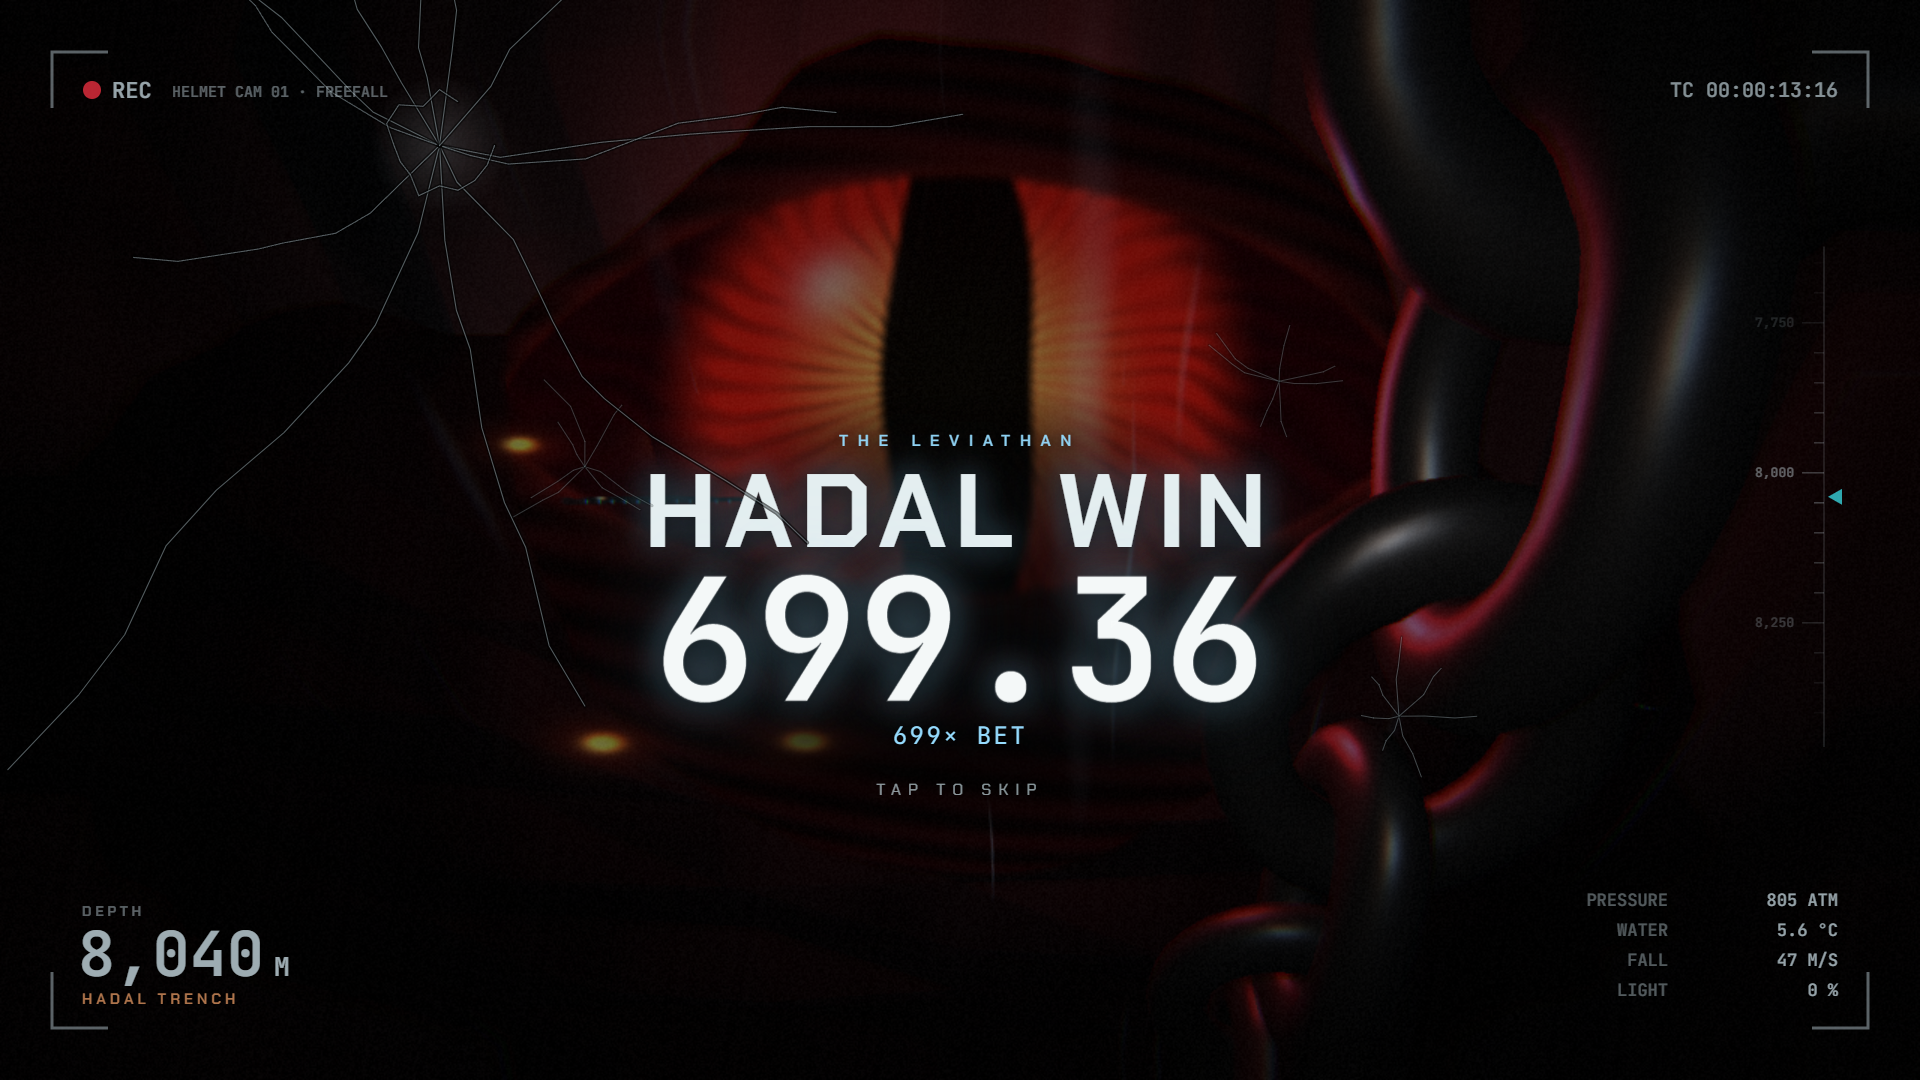
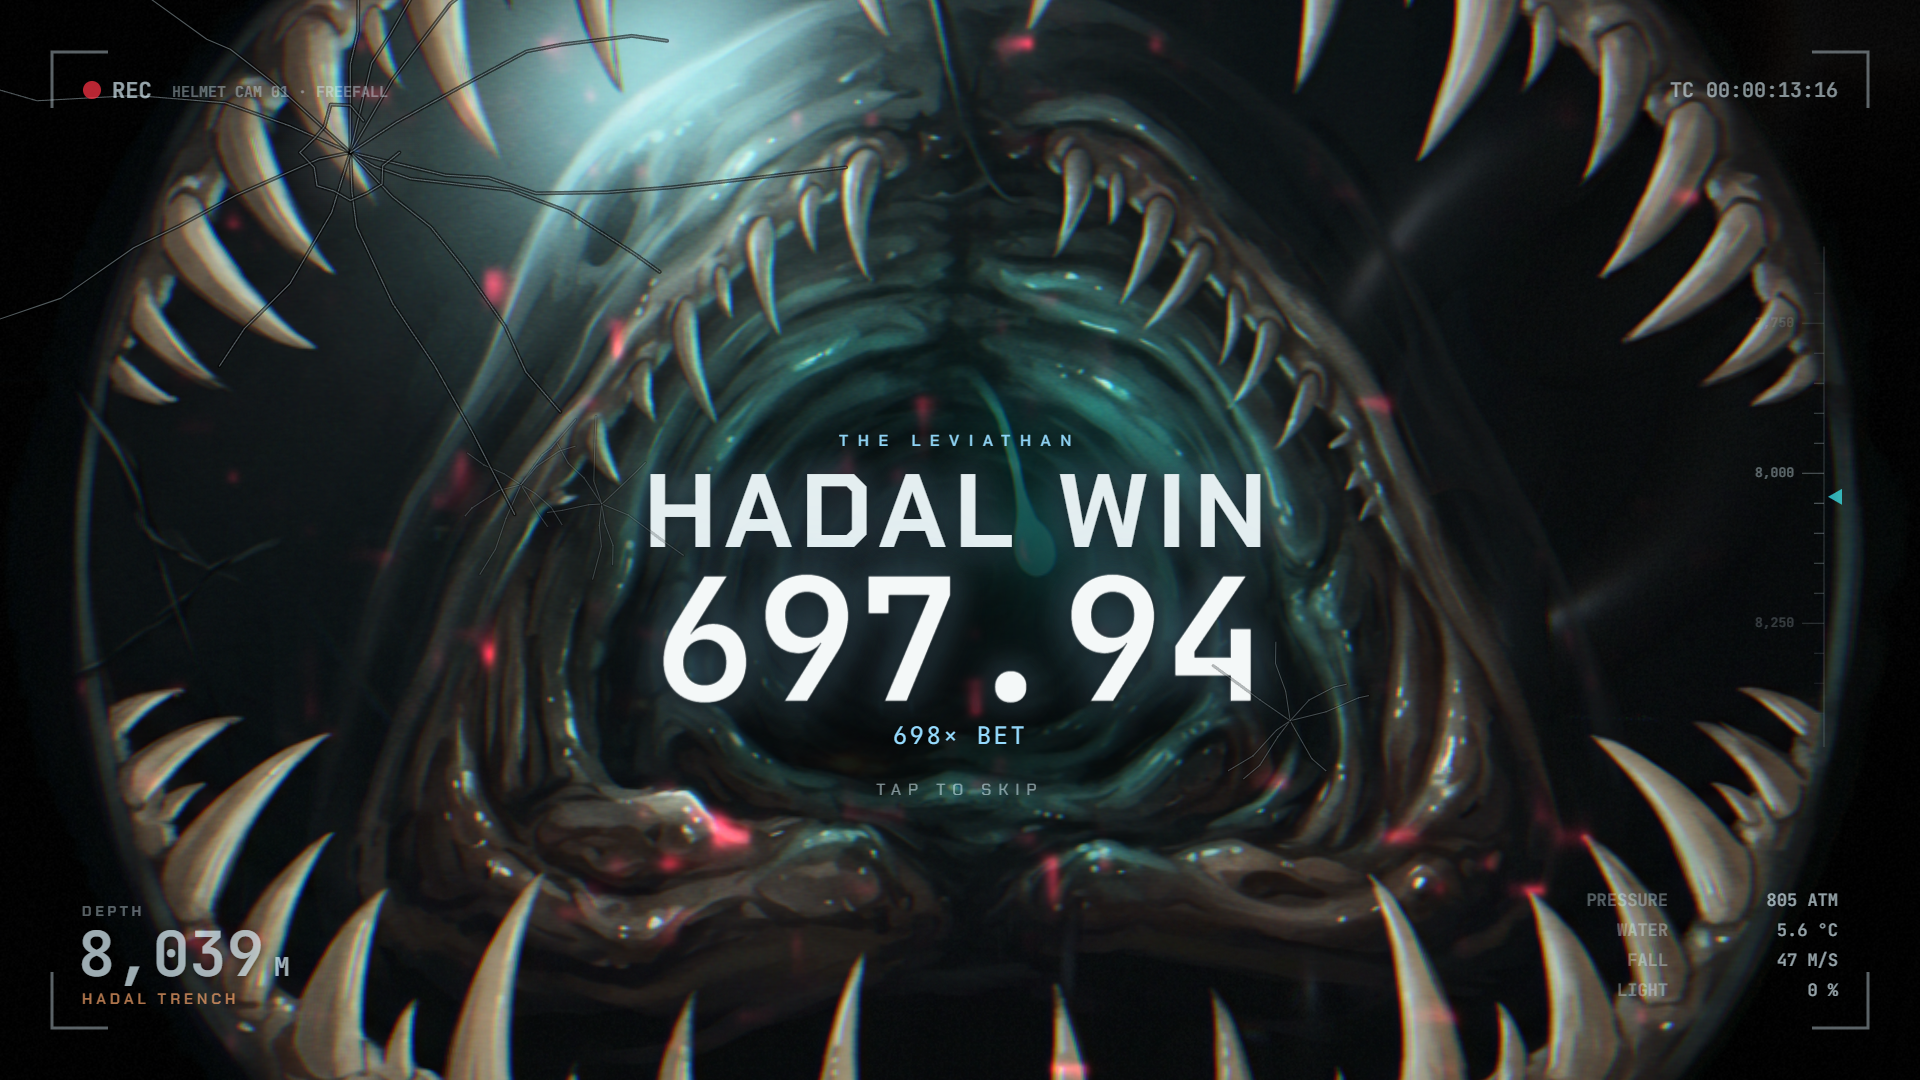
Wire the painted maw into the 500x big-win tier
After the blackout the lev_maw hero shot fills the frame behind the number
(between the 3D fall and the text), replacing the procedural face, and fades
out with the screen. The max-win Core sequence keeps its 3D eye.

diff --git a/slot_engine/static/canvas/index.html b/slot_engine/static/canvas/index.html
@@ -2449,8 +2449,9 @@ class Component extends DCLogic {
     A.maxLoop(false);
     if (A.descentStop) A.descentStop();
     A.duck(false);
-    // fade the fall out over the game
-    this.setState({ bw: Object.assign({}, this.state.bw, { stage: 'out', hint: '' }) });
+    // fade the fall out over the game (and the painted maw with it)
+    if (this.hero && this.hero.cur && this.hero.cur.id === 'lev_maw') this.hero.stop(650);
+    this.setState({ bw: Object.assign({}, this.state.bw, { stage: 'out', hint: '' }), heroZ: 7 });
     await this.wait(650);
     this.bwFx = null;
     this.setState({ levZ: 0, shake: '', bw: Object.assign({}, this.state.bw, { show: false, stage: '' }) });
@@ -2617,6 +2618,11 @@ class Component extends DCLogic {
       if (E.face < 0 && E.blackout >= 0.5) {
         E.face = 0;
         E.fogX = -0.022;
+        if (this.hero && this.hero.tex && this.hero.tex.lev_maw && !B.max) {
+          const G = this.geo();
+          E.heroMaw = this.hero.play('lev_maw', { x: 0, y: 0, w: G.W, h: G.H, cover: true, dur: 120000, hold: true, fadeIn: 900,
+            zoomFrom: 1.28, zoomTo: 1.0, fog: 0.2, chrom: 0.5, dark: 0.2, z: 9, par: 0.6, tint: '255,42,75' });
+        }
         E.shake8 = 1;
         if (!rm) B.shake = Math.max(B.shake, 2);
         if (A && A.boom) A.boom(null, 1.2);
@@ -3397,7 +3403,7 @@ class Component extends DCLogic {
     R.face.visible = R.eye.visible = showEye;
     R.eyeL.intensity = 0;
     U.uEyeI.value = 0;
-    if (!showEye && E.face >= 0) {
+    if (!showEye && E.face >= 0 && !E.heroMaw) {
       // T4: the Leviathan's face fills the frame behind the number, its eye opening above the count
       const rise = 1 - Math.exp(-E.face * 1.6);
       R.face.visible = R.eye.visible = true;

diff --git a/docs/SESSION_LOG.md b/docs/SESSION_LOG.md
@@ -23,7 +23,7 @@ Read this first on any PC. Newest entry on top. Each entry: date, branch, what c
 - Cascade pacing slowed twice at the user's request (phone test): feel.js highlight 750 / explode 480 / drop 520 (stagger 34) / pause 200 ≈ 1.95s per step; gate window widened to 900–2300ms; PASS (steps 1678–1961ms).
 - **Math fix (2026-11-02)** — user report: purged seats showed as empty, esp. in the ultra bonus. Cause: engine weights filled purged mass with `DEAD_SEDIMENT` blockers (110/150/200 at L3–L5 → 48–67% of cells); pre-existing, not caused by the front-end work. Baseline Monte Carlo was also off: base 57%, standard 117%, ultra 40%. Fix (`weights.py`, `symbols.py` paytable rescale, `rtp_profiles.py`, depth thresholds 6/13/24/100/200, L1/L2 natural spins +2): purged lows → mids/highs, sediment ≤3.6%; full gate PASS: base 98.2±2 (seed noise), xBet 92.6, standard 95.8, ultra 95.2, mystery 96.6 (% of each mode's cost). Gate: `python scripts/math_check.py [--full] [--api URL]` → run after EVERY engine change. Details `docs/math_calibration.md`. Front end now reads depth thresholds/natural spins from `/api/slot/paytable` (fallback = canvas defaults). Open: base hit frequency 49% (target ~28%) — needs rows/symbol-count change; base/xBet seed noise ±3pts at 200k.
 - **Big-win ladder DONE (2026-11-03, plan §C)** on top of the existing 3D fall (`bwFx.esc`, `bwEscalate/bwEscStep/bwChip/bwStutter` in `index.html`): T1 15× luminance 0.9; T2 40× 0.75 + cool grade + 10 eye pairs (kind-2 glint billboards in camera space) opening 150 ms apart and creeping toward the number, creature density ×2; T3 100× 0.6 + 6% fov push + 4 breachers (viperfish/fish) lunging to the faceplate with a refraction wobble (`uWobble`), glass chips on the overlay, two count stutters (same total duration), number scale 1.0→1.25 (`.bwamtw --as`), cracked-glass text; T4 500× 500 ms blackout + hush, then the Leviathan's eye/face in camera space behind the number, cracks propagating over ~2 s, 8 px/300 ms shake, 1.5× slam (`.slam4`). Post uniforms `uDim/uCool/uWobble`. Kickers renamed per plan. Capture: `python scripts/canvas/bigwin_capture.py [--portrait]` → `artifacts/canvas/bigwin_*.png` + `bigwin_report.json` (drives `__canvasGame.celebrate()` directly; 60 fps p95 17.2 ms during T4, no page errors). Known: the "mouth open" of T4 is the existing face sphere (no mouth geometry); the eye-pair "tracking" is a drift toward the number, not a pupil look-at.
-- **Leviathan → 2.5D hero shots (2026-11-03, user's choice: "the Nolimit way", like Beheaded's painted character).** The full procedural body is now a silhouette only in everyday view (`levUpdate` ceiling ≈0.2–0.45 when the hero layer is on); close-ups are painted hero shots played by `slot_engine/static/canvas/hero.js` on its own WebGL canvas (`data-hero`, z `heroZ`): depth-parallax from the pointer + drift, breathing scale, depth fog, chromatic aberration, motes, alpha envelope. Shots: `lev_eye` (loss reaction, replaces the 3D peek), `lev_jaws` (the bite, 3× the strike zone), `lev_rise` (level-up, under the card), `lev_maw` (reserved for max win). `?hero=0` disables. Art pipeline (free route): prompt pack `docs/prompt_packs/p3_leviathan_hero.md` (from `scripts/ai/prompts/p3_leviathan_hero.json`) → save Gemini results to `generated/inbox/p3_leviathan_hero/<id>_<n>.png` → `python scripts/ai/hero_prep.py [--pick lev_eye=2]` → cut-out + pseudo-depth (distance transform + luminance) + `assets/hero/hero.json`. Real paintings landed the same evening (user, Gemini app): all four shots in `assets/hero/` come from `generated/inbox/p3_leviathan_hero/lev_*_1.jpg`; `hero_prep.py` keys `lev_rise` harder (0.07:0.22) and clips everything above 30% of its height (light shaft). While a hero shot is up the 3D body's forced reveal is capped at 0.3. `--placeholder` still regenerates the stand-ins if needed. The P1 backdrop set the user generated (trench far/mid, silhouette, frame) is in `generated/inbox/p1_backdrop_frame/` (trench_far_1 needs re-saving: my crop cut its lit top). Capture: `python scripts/canvas/hero_capture.py` → `artifacts/canvas/hero_{idle,eye,jaws,rise}.png`, no page errors. The GLB route was rejected: `custom_leviathan.glb` is 68 MB, unrigged; only `shark.glb` is rigged.
+- **Leviathan → 2.5D hero shots (2026-11-03, user's choice: "the Nolimit way", like Beheaded's painted character).** The full procedural body is now a silhouette only in everyday view (`levUpdate` ceiling ≈0.2–0.45 when the hero layer is on); close-ups are painted hero shots played by `slot_engine/static/canvas/hero.js` on its own WebGL canvas (`data-hero`, z `heroZ`): depth-parallax from the pointer + drift, breathing scale, depth fog, chromatic aberration, motes, alpha envelope. Shots: `lev_eye` (loss reaction, replaces the 3D peek), `lev_jaws` (the bite, 3× the strike zone), `lev_rise` (level-up, under the card), `lev_maw` (reserved for max win). `?hero=0` disables. Art pipeline (free route): prompt pack `docs/prompt_packs/p3_leviathan_hero.md` (from `scripts/ai/prompts/p3_leviathan_hero.json`) → save Gemini results to `generated/inbox/p3_leviathan_hero/<id>_<n>.png` → `python scripts/ai/hero_prep.py [--pick lev_eye=2]` → cut-out + pseudo-depth (distance transform + luminance) + `assets/hero/hero.json`. Real paintings landed the same evening (user, Gemini app): all four shots in `assets/hero/` come from `generated/inbox/p3_leviathan_hero/lev_*_1.jpg`; `hero_prep.py` keys `lev_rise` harder (0.07:0.22) and clips everything above 30% of its height (light shaft). While a hero shot is up the 3D body's forced reveal is capped at 0.3. `--placeholder` still regenerates the stand-ins if needed. `lev_maw` is wired into the 500× big-win tier: after the blackout it fills the frame (cover, z 9, between the 3D fall and the number) in place of the procedural face, held until the screen closes (`hero.stop(650)`); the max-win Core keeps the 3D eye. The P1 backdrop set the user generated (trench far/mid, silhouette, frame) is in `generated/inbox/p1_backdrop_frame/` (trench_far_1 needs re-saving: my crop cut its lit top). Capture: `python scripts/canvas/hero_capture.py` → `artifacts/canvas/hero_{idle,eye,jaws,rise}.png`, no page errors. The GLB route was rejected: `custom_leviathan.glb` is 68 MB, unrigged; only `shark.glb` is rigged.
 - LAN test server: `python -m uvicorn slot_engine.api.app:app --host 0.0.0.0 --port 8081` → phone at http://<pc-ip>:8081/canvas (firewall already allows python). TODO: serve the canvas front end at `/` and move the old UI to `/legacy`.
 - Game feel applied to the canvas front end (loads `../js/feel.js`; `?profile=mga|ukgc|de`): cycle padding at end, turbo/autoplay off + slam ignored + quiet LDWs under ukgc/de, cascade step ≈1.0–1.2s with chain factor, hit-stop 4–5 frames + 250ms shake on Wild Maw / Leviathan / big cascade / tier, ladder 15/40/100/500× with exact skip. Checker: `python scripts/canvas/feel_check_canvas.py --profiles mga,ukgc` → OVERALL PASS (re-run by the orchestrator). Canvas's own ladder (50/100/500/1000×) and 2.1s cascade step were replaced by the teardown numbers.
 
